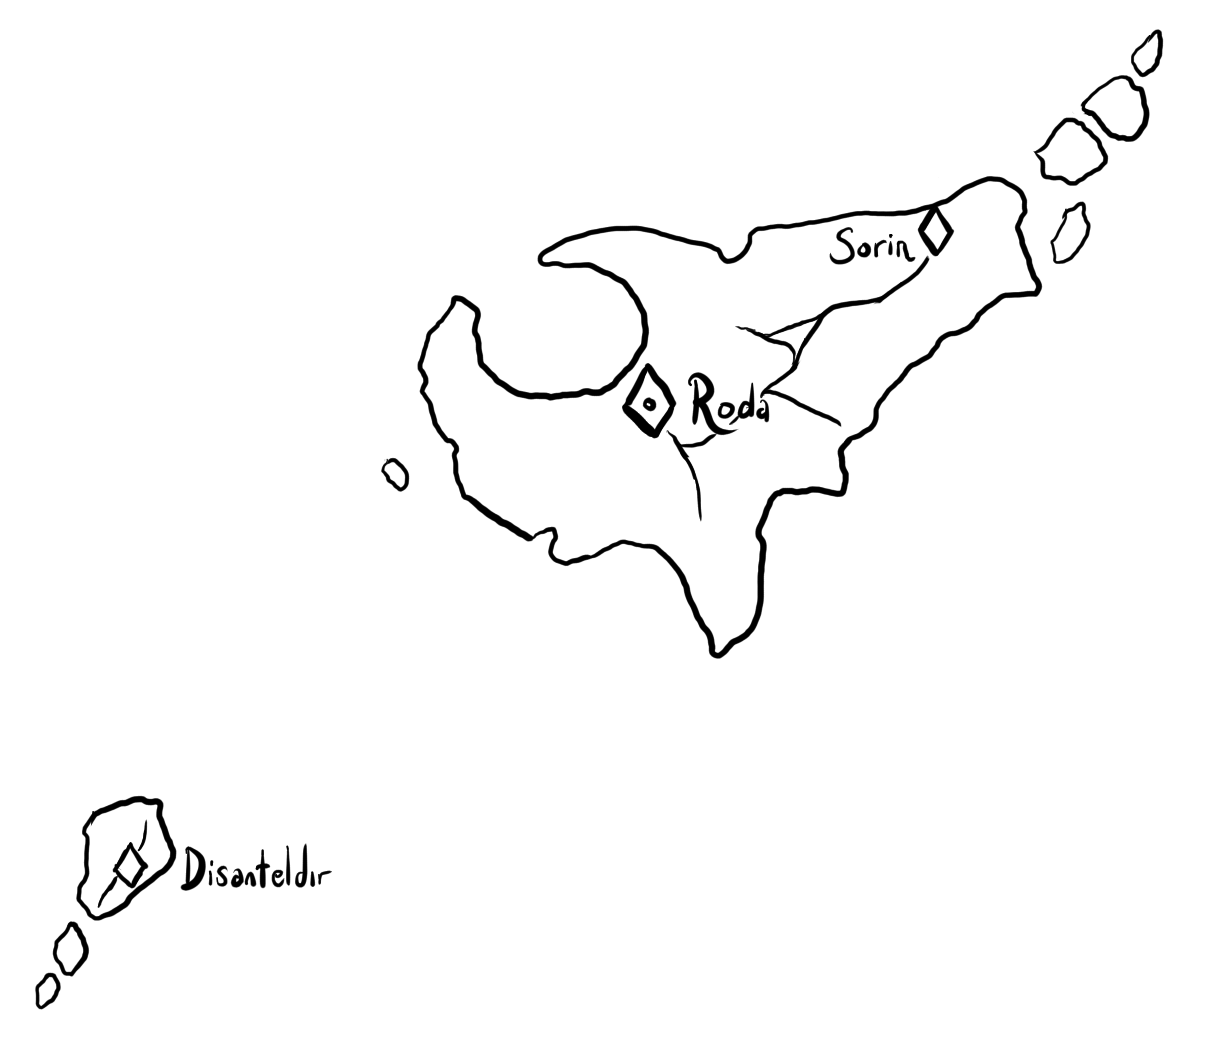
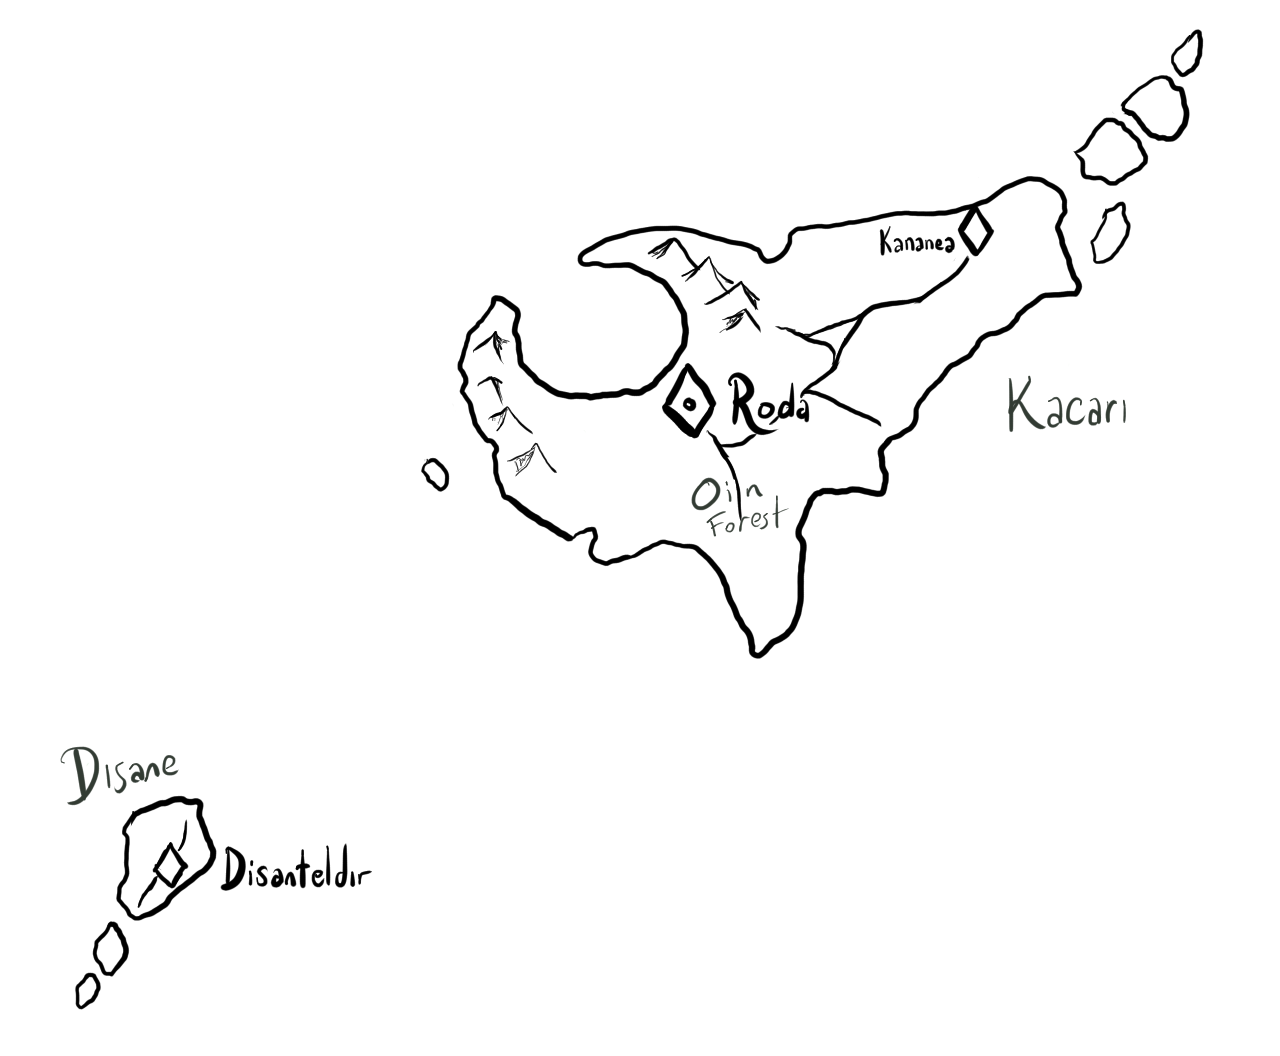
New maps and updated Kaer/Arennan articles to reflect them

diff --git a/Loreum/Topics/Geography/Baedoor_Continent/Kaer.md b/Loreum/Topics/Geography/Baedoor_Continent/Kaer.md
@@ -6,12 +6,12 @@
             <img alt="Kha/Dis map" height="400" src="/Assets/Maps/erdic_islands.png">
         </td>
         <td width="40%" align="center">
-            <img alt="Kaer map" height="400" src="/Assets/Maps/kaer_book.png">
+            <img alt="Kaer map" height="400" src="/Assets/Maps/kaer_book_detail.png">
         </td>
     </tr>
     <tr>
-        <td> Gridmap of Kacari and Disane islands, New Era </td>
-        <td> Kaer from "Southern Islands" book             </td>
+        <td> Gridmap of Kacari and Disane islands, New Era       </td>
+        <td> Kaer from "Southern Islands" book, detailed version </td>
     </tr>
 </table>
 <table>
@@ -93,6 +93,7 @@ during Baedoor occupation.
 - Rosiuai River `? name - rename it to Roisuri and move it to go from Cataris to in between Phyr and Bristeldir`
 - Enkg Mountains
 - Eckhag Forest `around Atakil - can be nomathian side`
+- Oin Mountain `turned into name of the forest, it fits it better imo`
 
 ## -- New Planning ---
 ### TOWNS
@@ -102,11 +103,13 @@ during Baedoor occupation.
 - Ortaver `Detemardir is old erdic name`
 - Neghdit
 - Rolsale `ruined baedoorian city north-west of Ranirsis, with little woodsmen village built nearby`
+- Retevet `on Ehaet`
 #### Kehts
 - Dahekhris
 - Carion
 - Phyr
 - Vartrekh
+- Khar Ia `Kar Ia on Kartograf map`
 #### Erds
 - Bristeldir
 - Cataris
@@ -114,28 +117,41 @@ during Baedoor occupation.
 - Sanaran
 #### Kacari
 - Roda
-- Sorin
+- Kananea
 ### VILLAGES
 #### Kaerians
 - Ardhaved
 - Nivdit
 - Kernat `Kerna on Kartograf map, north-east of Neghdit`
+- Hemantir
+- Govarat
 #### Kehts
 - Ekhalat `ekhalad? to make it more kehtic in name; I love ekhalat though and there's vartrekh`
 - Sekhra `Secra on Kartograf map`
-- Khar Ia `Kar Ia on Kartograf map`
 - Elur `Eluva on Kartograf map`
 - Varkhil `Pharkil on Kartograf map`
 - Karg
+- Vidis
+- Nepekh
+- Eldril
+- Vaktad
+- Rekherad
+- Cortedar
+- Khedaris
 #### Erds
 - Liteil
 - Arinis `Atryhian on Kartograf map`
+- Ninnan
+- Miris
+- Irane
+- Kemsan
+- Ranadir
 #### Kacari
 - Anoan
 - Anoltan `ruined`
 ### LANDSCAPES
 - Nemori Mountains `the main chain` `Enkgit in kaerian`
-- Ardhavet Mountains `northern split of the chain`
+- Misavor Mountains `northern split of the chain`
 - Har Mountains `kehtic`
 - Mavsvi River `the main, leading to delta`
 - Mikhyat `delta`
@@ -143,15 +159,29 @@ during Baedoor occupation.
 - Hvernom Forest `northern forest`
 - Marane Forest `southern side of southern forest`
 - Rivers
+  - Neverat `through Hvernom forest`
   - Saroma `one going through Atakil`
   - Roisuri `one going near Cataris towards in between Phyr and Bristeldir`
   - Lahar `one going from Dahegriz and into the sea near Carion`
-  - Hevter `river south of Neghdit`
-  - Namarit `river near Moricur, flowing into Mavsvi close to delta widening`
-  - Gedet `river out of Har mountains, flowing into Mavsvi on delta`
+  - Dekhaz `river out of Har mountains, flowing into Mavsvi on delta`
+  - Hevter `river south of Neghdit` (not on map)
+  - Namarit `river near Moricur, flowing into Mavsvi close to delta widening` (not on map)
+  - Gedet `river flowing through Sekhra` (not on map)
+- Small Islands
+  - Kaerian Chain
+    - Tavit `west`
+    - Ehaet `east`
+  - Kehtic Chain
+    - Anasakh `south`
+    - Veneis `north`
+  - Eastern Chain
+    - Uktir `the northest one`
+    - Manel `small, south of Uktir`
+    - Asladil `southest, near Sanaran`
 - Mesaul Mountains `west range on Kacari`
 - Lemeris Mountains `east range on Kacari`
 - Dair River `the river going south of Temple, out of Mesaul`
+- Oin Forest `forest south of Roda`
 
 ### General Naming Schemes
 - Kehts
@@ -169,9 +199,11 @@ during Baedoor occupation.
 - Erds
   - often ends names with `n`, `l`, `s`, `a` and `e`
     - `i` is rarer but possible option (usually reminiscent of tris however)
-  - uses `-teldir`/`-dir` suffix (`-is` and `-il` being both erdic and kehtic)
+  - uses `-teldir`/`-dir`, `-an` and `-ne` suffixes (`-is` and `-il` being both erdic and kehtic)
   - more frequent usage of vowels, the words should flow
 - Summary
+  - `-dir` and `-dit` can have some shared meaning/be influenced
+  - does `-an` suffix mean `arennan` is erdic name for the island? (`nn` is used in erdic)
   - Kaerians are heavily influenced by kehts, a mix of hard (`g`) nomathic and stiffier (`kh`) kehtic
   - Kehts and erds has some melodic parts and letter use shared, but differ heavily in flow and sounds
 

diff --git a/Loreum/Topics/Races.md b/Loreum/Topics/Races.md
@@ -12,8 +12,7 @@ may also visit [cultures page](Cultures.md).
 ####   🔹 Latoka
 ####   🔹 Naks
 ####   🔹 Orcs
-####   🔹 Naantael `'Ixathei ormaths' (would it be ormaths actually travelling west? before saphtri? or not ormaths at all? or their ancestors who travelled east?)`
-####   🔹 Talaaxi `Ixathei apes`
+####   🔹 Naantael `'Ixathei ormaths' (see notes below)`
 ####   🔹 Mesinpeans `previously as human kind, brainstorm`
 ####   🔹 Mrrans `previously as human kind, brainstorm`
 ####   🔹 Humans
@@ -26,6 +25,7 @@ may also visit [cultures page](Cultures.md).
 ####     🔹 Voitri
 ####     🔹 Pahtri
 ####     🔹 Lunatri
+####   🔹 Zhi `should it be race, or rather rejected culture within tri?`
 ####   🔹 [Agoians]
 ####   🔹 [Underwater Race, Agoi] `see cultures doc`
 ####   🔹 [Underwater Race, Northern Islands] `see cultures doc`
@@ -37,7 +37,7 @@ may also visit [cultures page](Cultures.md).
 ####   🔹 [Serpent Race]
 ####   🔹 [Werewolf Race] `see cultures doc`
 ####   🔹 [Minotaur Race]
-####   🔹 [Southern Apes]
+####   🔹 Talaaxi `Ixathei apes`
 ####   🔹 [Cthulhu-Likes] `see cultures doc`
 
 ### Spiritual races
@@ -52,5 +52,7 @@ may also visit [cultures page](Cultures.md).
 ---
 ♜✥: links, more races still pending (East Moon, West Moon probably to diversify from too human-centric
 perspective? more on Ixathei, more on Eimr and nearby islands, and abundance of races on Serpent
-Islands - not to mention Vaos; also Mesinpeans could be multiple races or cultures within the one race)  
+Islands - not to mention Vaos; also Mesinpeans could be multiple races or cultures within the one race)
+
+Re: Naantael - would it be ormaths actually travelling west? before saphtri? or not ormaths at all? or their ancestors who travelled east?  
 [💠](/Entrance.md) 〰 [➰](/Loreum/Loreum.md)

diff --git a/Loreum/Topics/Geography/Baedoor_Continent/Arennan.md b/Loreum/Topics/Geography/Baedoor_Continent/Arennan.md
@@ -3,11 +3,11 @@
 <table width="40%">
     <tr>
         <td width="40%">
-            <img alt="Arennan map" height="400" src="/Assets/Maps/arennan_book.png">
+            <img alt="Arennan map" height="400" src="/Assets/Maps/arennan_book_detail.png">
         </td>
     </tr>
     <tr>
-        <td> Arennan from "Southern Islands" book </td>
+        <td> Arennan from "Southern Islands" book, detailed version </td>
     </tr>
 </table>
 
@@ -26,9 +26,41 @@ foreign lands, as their existence is in increasing danger as climate becomes mor
 - Tharie `v`
 - Sarven `v`
 - Anvare `v`
+- Nevai
+- Haktei
+- Nahti
+- Minau
+- Sinat `Cinalda on map, move to the island`
+- Atuv Nai `Atuuv on map`
+
+### VILLAGES
+- Kennevai `near Nevai`
+- Enam `Enamo on map`
+- Osarat `Osara on map, moved`
+- Ainoin `Ainonindale on map`
+- Vanil `Vhonillan on map`
+- Nanve `Nosarinve on map`
+- Vil `Vilppu + Viena on map`
+- Elanven `v`
+- Avhetei `Avho Tryn on map`
+- Arven Tari `Arveen Tarji on map`
+- Achan `v, moved; let it be the village built by baedoorians`
+- Igavi `Igas on map`
+- Karat
+- Kemminau
+- Nerime `moved`
 
 ### LANDSCAPES
 - Ivasai Mountains
+
+### General Naming Scheme
+- Cities
+  - common suffixes: `-e`/`-i`, tri `-ai`/`-ei`, `-en`
+  - sometimes use double names
+  - flowing letters (`n`, `m`, vowels) used commonly
+  - ...but often partitioned by stiff (`t`/`v`/`h`) or hard (`r`) letters to kinda slow it down
+  - `ke[double the first letter]` prefix to small villages belonging to bigger city polity
+- Landscapes
 
 ### TOPICS
 ####   🔷 [🐊 Bestiary](/Loreum/Topics/Nature/Bestiary/Arennan_Bestiary.md)

diff --git a/Loreum/Topics/Races/Regular/Kehts.md b/Loreum/Topics/Races/Regular/Kehts.md
@@ -5,7 +5,7 @@
 long, dark hair that lasts to the elderly age.
 
 ### Origins
-The ancient roots of kehtic race direct us to **Blood Tribes**, goblin tribes that sacrificed themselves
+The ancient roots of kehtic race direct us to **Blood Tribes**, goblins that gave themselves
 to the cults of spirits that required them to perform self-humiliation and sacrifices of blood - both
 the tribesmen and foreign beings.  
 Those spirits rewarded the loyal goblins and ascended their beings into new flesh - they formed them
